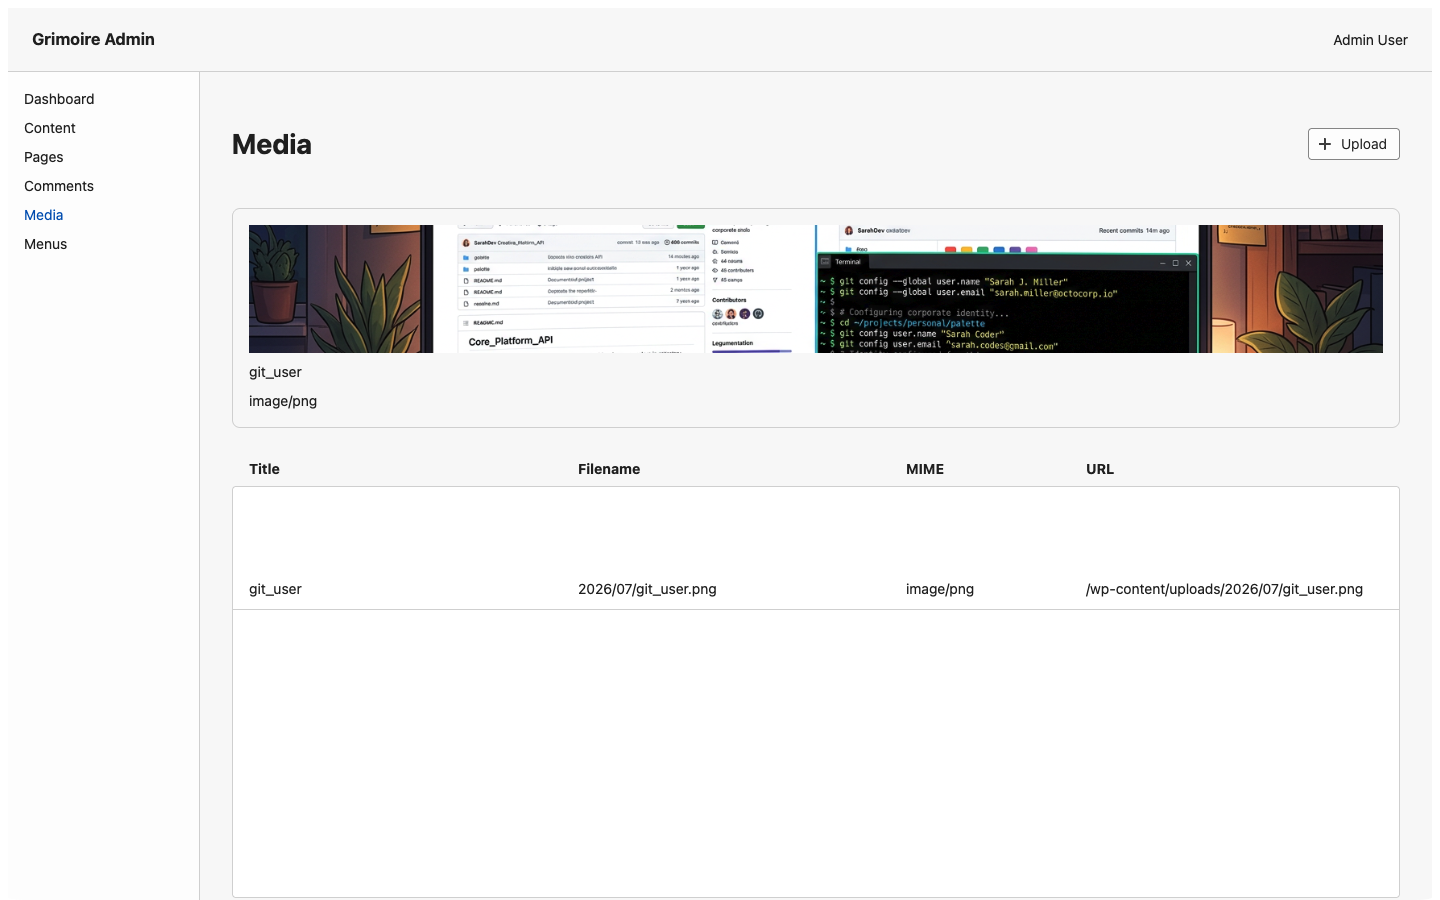
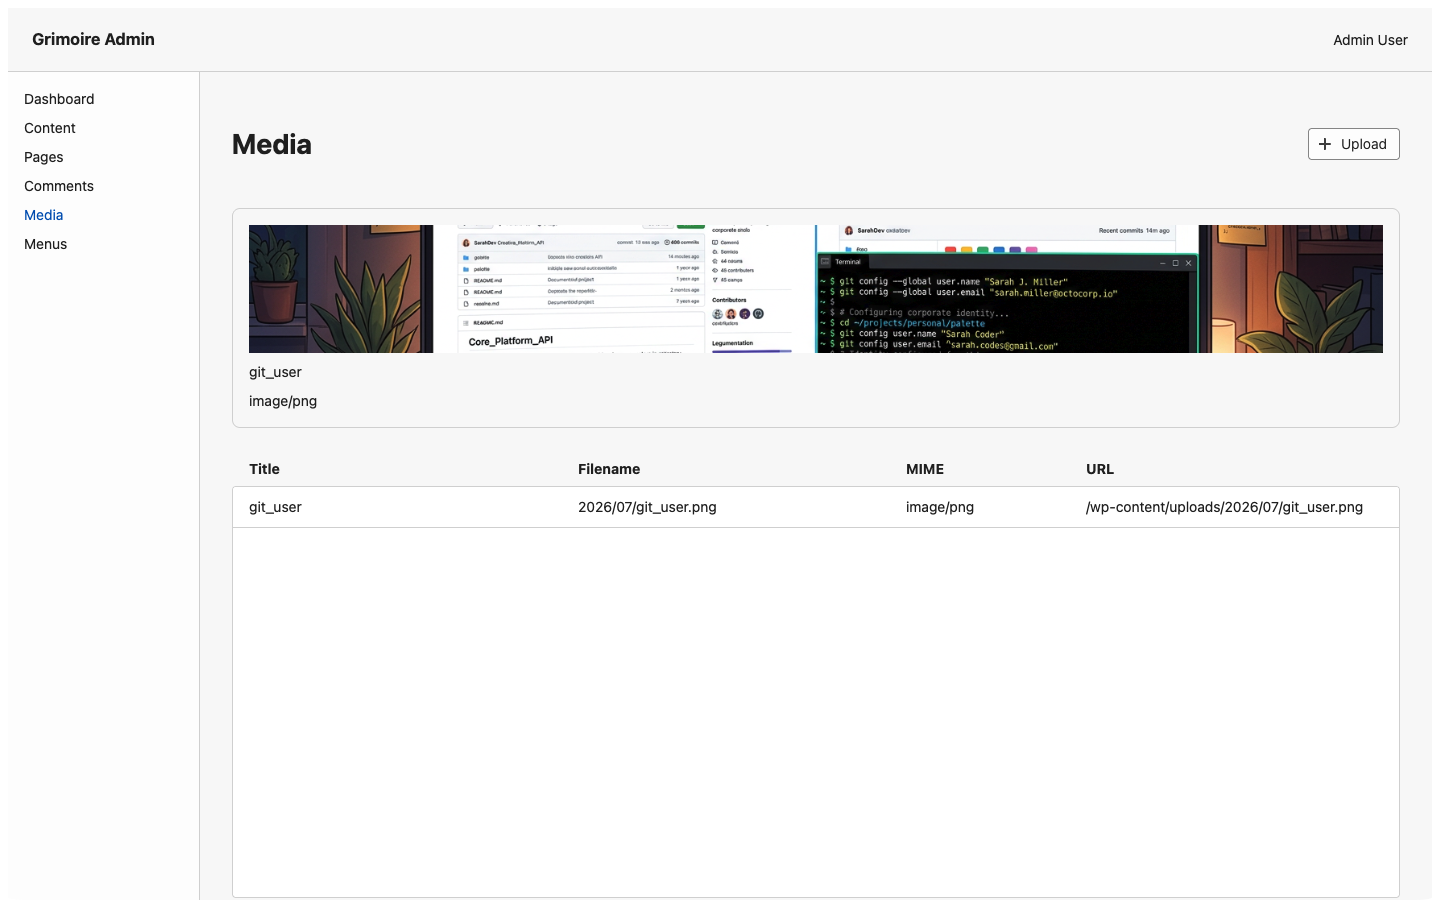
docs: final compatibility tour correction pass
Address the final review rejection's remaining blockers:

- docs/compatibility.md: correct the additive sessions-table claim (it is
  created/written inside the configured DB under its own table_prefix on
  every login, not merely additive-and-untouched); ground schema
  access-mode claims in source (usermeta read/write; postmeta narrowly
  read with only the attachment-create _wp_attached_file key written;
  users login is by user_login with user_email as profile data and
  users also has supported writes; terms/term_taxonomy/term_relationships
  read/write and category/tag support); reconcile M4 media-write and
  REST-only 501 wording so they no longer contradict each other.
- Recapture media-library-grimoire.png and posts-list-editor-grimoire.png
  with clean DOM removal of every unpublished/non-target row and no blank
  removed-row bands, while disclosing the redaction on-screen and in prose.
- docs/wordpress-compatibility-tour.md prose fixes:
  - Admin dashboard: disclose that WordPress's At a Glance/Quick Draft
    widget bodies render empty/collapsed in this capture, instead of
    claiming they are shown unmodified.
  - Posts list/editor: rewrite for the redacted 7-row grimoire capture;
    state its footer text and low count are capture-time redaction, not a
    working filter, and are not comparable to WordPress's real 145-item
    total; note grimoire's list has no Author column; distinguish the
    WordPress admin Author-column redaction from the intentionally
[…]

diff --git a/docs/wordpress-compatibility-tour.md b/docs/wordpress-compatibility-tour.md
@@ -22,12 +22,17 @@ compatibility guide.
 | ![WordPress public home showing published posts](./images/compatibility/public-home-wordpress.png) | ![grimoire public home showing the same published posts](./images/compatibility/public-home-grimoire.png) |
 
 **What matches:** Both list the same published posts, in the same order,
-with the same titles, links, and excerpt text.
+with the same titles and links, from the same source post data.
 
 **Intentional differences:** The products use different themes and page
-chrome. Excerpt truncation (word count, ellipsis placement) is approximated
-per product and may not be byte-identical even when the underlying source
-excerpt is the same.
+chrome. When a post has an explicit custom excerpt, both products render
+that same stored text verbatim (the first post's excerpt above is
+byte-identical on both sides). When a post has no custom excerpt, each
+product derives one from the post body using its own truncation rule —
+WordPress's theme truncates to a shorter length than grimoire's ~55-word
+auto-excerpt, so the second post's auto-generated excerpt above is visibly
+longer on the grimoire side even though both are derived from the same
+source content.
 
 **Current limits:** This pair does not claim plugin or theme-rendering
 parity.
@@ -79,31 +84,45 @@ Spectrum admin use different navigation, widgets, and visual design.
 name replaced with the placeholder "Admin User" before capture, and the
 WordPress screenshot has its "Recent Comments" activity widget removed —
 both are in-browser redactions to avoid showing real names, not product
-differences. The WordPress dashboard's other widgets (At a Glance, Quick
-Draft, site health) are otherwise shown unmodified.
+differences. In this specific capture, WordPress's "At a Glance" and "Quick
+Draft" widget bodies render empty/collapsed — this is the actual state of
+this WordPress installation at capture time, not something suppressed for
+the screenshot; only "Site Health Status" and "WordPress Events and News"
+show populated widget content.
 
 ## Posts list/editor
 
 | WordPress | grimoire |
 | --- | --- |
-| ![WordPress posts list filtered to published posts (145 items)](./images/compatibility/posts-list-editor-wordpress.png) | ![grimoire posts list, unfiltered, page 1 of 15 (148 items across all statuses)](./images/compatibility/posts-list-editor-grimoire.png) |
+| ![WordPress posts list filtered to published posts (145 items)](./images/compatibility/posts-list-editor-wordpress.png) | ![grimoire posts list capture-redacted to its 7 published rows only, with unpublished rows removed before capture](./images/compatibility/posts-list-editor-grimoire.png) |
 
 **What matches:** Both are the admin list view with entry points to edit the
-same underlying posts, backed by the same database.
+same underlying posts, backed by the same database, showing published posts
+only.
 
 **Intentional differences:** Editing controls and layout differ; this
 capture does not demonstrate saving, autosave, or Gutenberg block-editor
-parity.
+parity. grimoire's admin list also has no separate Author column, unlike
+WordPress's.
 
-**Current limits:** These two screenshots show different scopes and are
-**not** an apples-to-apples count comparison. The WordPress screenshot uses
-its native `?post_status=publish` filter (145 published posts). grimoire's
-admin posts list has no equivalent status filter today, so its screenshot
-shows the real, unfiltered first page of the list as the product actually
-renders it: page 1 of 15, 148 total items, mixing `publish`, `draft`, and
-`auto-draft` rows. The logged-in user's display name is replaced with
-"Admin User" in both screenshots (redaction only, not a product
-difference).
+**Current limits:** WordPress's screenshot uses its native
+`?post_status=publish` filter — a real, working product control — to show
+145 published posts across the product's own real pagination. grimoire's
+admin posts list has no equivalent published-only filter today, so its
+published-only view here is **not** a product control: every non-`publish`
+row was removed from the live DOM before capture, and the on-screen "7
+published item(s) shown (capture-redacted; unpublished rows removed)"
+caption is disclosure text substituted for grimoire's real pagination/count
+footer. The two visible counts are therefore not comparable — WordPress's
+145 reflects an actual published-post total; grimoire's 7 reflects only
+what a capture-time DOM redaction left on this one page, not the site's
+real published-post count. The logged-in user's display name is replaced
+with "Admin User" in both screenshots (redaction only, not a product
+difference); WordPress's Author column, which also reads "Admin User" per
+row here, received that same admin-identity redaction. This is distinct
+from the public byline shown on the single-post page above ("Rob Weaver"),
+which is left unredacted because a post's author byline is already public,
+published information rather than an admin-only credential.
 
 ## Media library
 
@@ -132,6 +151,15 @@ to remove every attachment card except `git_user`'s — it is not a working
 product filter and is disclosed here as a capture-time adjustment, not a
 grimoire feature.
 
+The `git_user` attachment's own artwork depicts a fictional git-configuration
+screenshot (a mock repository page and mock terminal session) that includes
+placeholder names and gmail-style addresses for a persona called "Sarah
+Coder." This artwork is already public: it's embedded in the selected
+post's own published body (see "Single published post" above, alt text "Git
+user woes"), and that post's text explicitly states its "org, user, and key
+names" are placeholders. No additional redaction was applied to this
+already-public, already-fictional illustration.
+
 ## Representative REST response
 
 | WordPress | grimoire |
@@ -142,11 +170,19 @@ grimoire feature.
 and return the same post's fields.
 
 **Intentional differences:** Key order and some optional fields may differ.
-Both responses have their local capture hostname replaced in-page with a
-placeholder domain (`wordpress.example.test` / `grimoire.example.test`)
-before capture so no local network detail is shown; only the URL host was
-changed, all other JSON structure and values are exactly as returned by each
-server.
+The `content.rendered` field itself differs semantically between the two
+responses: WordPress's `content.rendered` is fully processed HTML with its
+Gutenberg block-comment delimiters (for example `<!-- wp:paragraph -->`)
+stripped, and its internal image URLs resolved to absolute paths on
+WordPress's own host. grimoire's `content.rendered` retains the raw
+Gutenberg block-comment delimiters un-stripped, and renders internal image
+URLs as root-relative paths (no host). Both represent the same underlying
+post content, but a consumer parsing `content.rendered` as final,
+fully-processed HTML should account for this difference. Both responses
+also have their local capture hostname replaced in-page with a placeholder
+domain (`wordpress.example.test` / `grimoire.example.test`) before capture
+so no local network detail is shown; only the URL host was changed, all
+other JSON structure and values are exactly as returned by each server.
 
 **Current limits:** One `GET` request is not a claim of total REST API
 parity; see [`./compatibility.md`](./compatibility.md) for the full

diff --git a/docs/compatibility.md b/docs/compatibility.md
@@ -14,19 +14,25 @@ With the configured `table_prefix` (default `wp_`):
 | Table | Used for |
 |-------|----------|
 | `posts` | posts + pages (public read: `post_status='publish'`; admin/REST: full CRUD across statuses, revisions, and scheduling) |
-| `postmeta` | read and written — featured-image and attachment metadata, and other post/page meta |
+| `postmeta` | read only — featured-image (`_thumbnail_id`) and attachment metadata (`_wp_attachment_metadata`); the single `_wp_attached_file` key is written when a new attachment is created, but no other post/page meta is written |
 | `options` | `blogname`, `blogdescription`, … site settings |
-| `terms` | category names + slugs |
-| `term_taxonomy` | taxonomy rows (`category`) + counts |
-| `term_relationships` | post ↔ taxonomy links |
-| `users` | full WordPress-compatible auth: `user_pass`, `user_email`, and related columns are read and checked for login, not just displayed |
-| `usermeta` | user metadata (schema present, WordPress-compatible) |
+| `terms` | category and tag names + slugs (read + write: create, rename, delete) |
+| `term_taxonomy` | taxonomy rows (`category`, `post_tag`) + counts (read + write; counts are recomputed whenever a post's term assignments change) |
+| `term_relationships` | post ↔ taxonomy links (read + write, via category/tag assignment) |
+| `users` | read for authentication (`user_login` is looked up and `user_pass` verified — login is never by email) and profile display (`user_email` is display/profile data, not part of login); writes: new-user creation (`create_users`-authorized calls and CLI bootstrap) and password-hash upgrades on successful login against a legacy hash |
+| `usermeta` | read + written — role/capability assignment (`{prefix}capabilities`, legacy `{prefix}user_level`) and other single-valued user meta |
 | `comments` | comment storage and moderation workflow (read + write) |
 | `commentmeta` | comment metadata (read + write) |
 
-grimoire also has its own native `sessions` table (not part of the WordPress
-schema) for its own session/CSRF-token management; it is never read from or
-written to an existing WordPress database.
+grimoire also has its own additive `sessions` table (not part of the native
+WordPress schema) for its own session/CSRF-token management. Unlike the
+read-only verification recipe below, this table **is** created (via
+`grimoire-cli migrate`, `IF NOT EXISTS`) and written to on every login —
+inside whatever database grimoire is configured against, under that
+database's own `table_prefix`. If grimoire is pointed at a real WordPress
+database, this additive table is created and written there too; it has no
+WordPress-native counterpart and does not overlap with any WordPress core
+table's columns or rows.
 
 Type mappings from the WordPress MySQL schema are translated per vendor
 (`BIGINT(20) UNSIGNED`→`BIGSERIAL`/`INTEGER`, `LONGTEXT`→`TEXT`,
@@ -42,15 +48,19 @@ Type mappings from the WordPress MySQL schema are translated per vendor
   and role-aware access control.
 - **M3 — Embedded admin:** the Adobe React Spectrum admin shell for managing
   site content.
-- **M4 — Comments, media, menus:** comment workflows, media handling
-  (reading rows from the database; see `media.uploads_dir` in the README),
-  and navigation menus.
+- **M4 — Comments, media, menus:** comment workflows, media handling (the
+  embedded admin UI supports uploading new attachments and reassigning their
+  parent post, in addition to reading rows from the database; see
+  `media.uploads_dir` in the README), and navigation menus.
 - **M5 — Extensions and REST API:** the compiled `pkg/extensions` hook
   registry and a WordPress-compatible REST API at `/wp-json/wp/v2/*` — read
   parity for posts/pages/comments/media/users, plus write endpoints for
-  comments, posts/pages, and categories/tags. Media and user writes still
-  return `501`. Non-anonymous REST auth uses WordPress Application
-  Passwords.
+  comments, posts/pages, and categories/tags. The REST media and user
+  endpoints specifically still return `501` for every write verb — that
+  501 is scoped to the REST API surface only; media uploads and user
+  creation both have working, authorized write paths elsewhere (M4's admin
+  UI for media, and `create_users`-gated calls / CLI bootstrap for users).
+  Non-anonymous REST auth uses WordPress Application Passwords.
 - **M6 — Admin CRUD editor:** full content editing, status transitions, and
   optimistic concurrency in the admin UI.
 - **M7 — Revisions and scheduler:** revision history, autosave, and

diff --git a/plans/wordpress-compatibility-tour/tasks.md b/plans/wordpress-compatibility-tour/tasks.md
@@ -70,18 +70,18 @@ M8 and must use a separate pull request.
 
 ## Phase 3 — Validate and commit the implementation
 
-- [ ] 3.1 Validate artifacts and links.
+- [x] 3.1 Validate artifacts and links.
   - _Action:_ Run the manifest, dimension, and local-link commands in
     `design.md`.
   - _Acceptance:_ Exactly 14 expected PNGs exist at approved dimensions and all
     links resolve. _(Req 5, 8)_
-- [ ] 3.2 Validate privacy and current documentation.
+- [x] 3.2 Validate privacy and current documentation.
   - _Action:_ Run the privacy and stale-language scans, render GitHub Markdown,
     and complete the manual image review.
   - _Acceptance:_ No sensitive/capture-only value, unpublished content, stale
     M1 claim, broken layout, or unsupported parity claim remains. _(Req 1, 4, 7,
     8)_
-- [ ] 3.3 Validate scope and commit.
+- [x] 3.3 Validate scope and commit.
   - _Action:_ Run `git diff HEAD --check`, inspect `git status --short` and
     `git diff HEAD --name-only`, then stage only the approved files.
   - _Acceptance:_ No code, dependency, configuration, data, generated asset,
